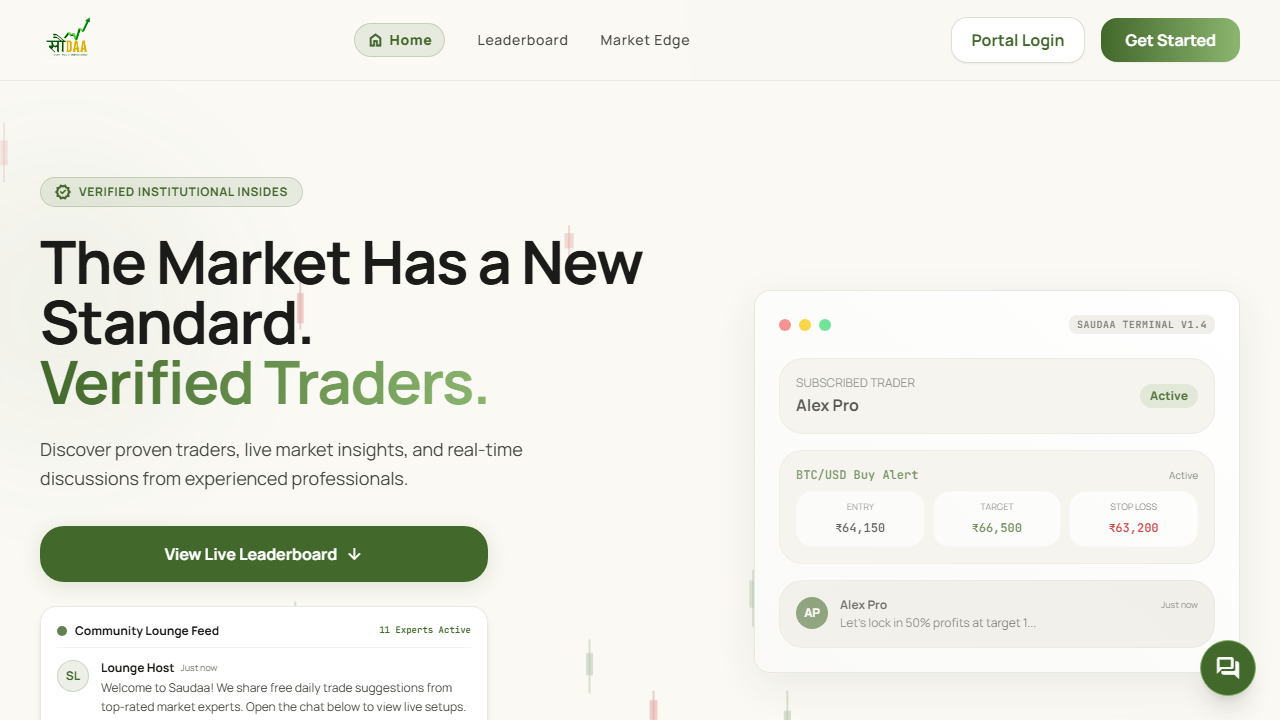
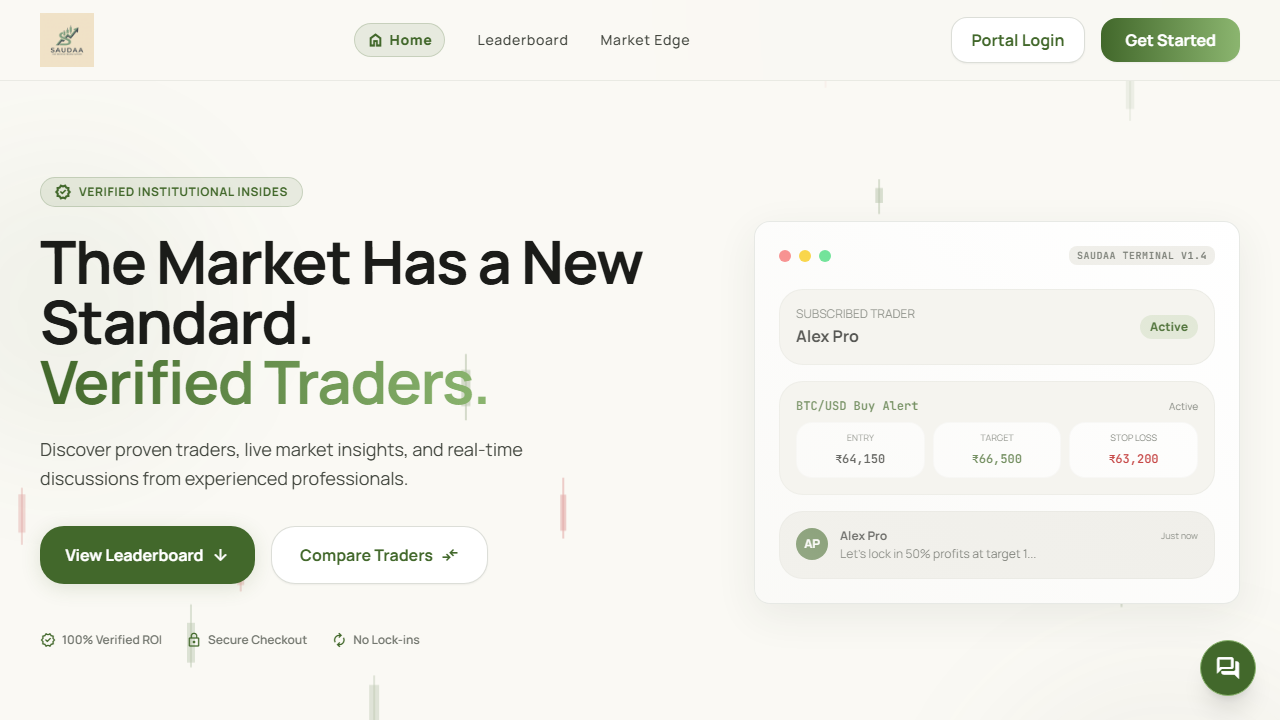
feat: animate live stock pricing ticker to rotate seamlessly from right to left with hover pause

diff --git a/public/index.html b/public/index.html
@@ -346,32 +346,59 @@
           </span>
           Live Markets:
         </div>
-        <div id="price-ticker" class="flex gap-12 whitespace-nowrap animate-ticker custom-scrollbar overflow-x-auto py-0.5">
+        <div id="price-ticker" class="flex gap-12 whitespace-nowrap animate-ticker overflow-hidden py-0.5">
           <!-- Populated by JavaScript -->
+          <!-- Set 1 -->
           <div class="ticker-item inline-flex items-center gap-2">
             <span class="font-bold text-xs text-on-surface">AAPL</span>
-            <span class="font-mono text-xs text-outline" id="price-AAPL">---</span>
-            <span class="font-mono text-xs font-semibold" id="change-AAPL">---</span>
+            <span class="font-mono text-xs text-outline">---</span>
+            <span class="font-mono text-xs font-semibold">---</span>
           </div>
           <div class="ticker-item inline-flex items-center gap-2">
             <span class="font-bold text-xs text-on-surface">MSFT</span>
-            <span class="font-mono text-xs text-outline" id="price-MSFT">---</span>
-            <span class="font-mono text-xs font-semibold" id="change-MSFT">---</span>
+            <span class="font-mono text-xs text-outline">---</span>
+            <span class="font-mono text-xs font-semibold">---</span>
           </div>
           <div class="ticker-item inline-flex items-center gap-2">
             <span class="font-bold text-xs text-on-surface">TSLA</span>
-            <span class="font-mono text-xs text-outline" id="price-TSLA">---</span>
-            <span class="font-mono text-xs font-semibold" id="change-TSLA">---</span>
+            <span class="font-mono text-xs text-outline">---</span>
+            <span class="font-mono text-xs font-semibold">---</span>
           </div>
           <div class="ticker-item inline-flex items-center gap-2">
             <span class="font-bold text-xs text-on-surface">NVDA</span>
-            <span class="font-mono text-xs text-outline" id="price-NVDA">---</span>
-            <span class="font-mono text-xs font-semibold" id="change-NVDA">---</span>
+            <span class="font-mono text-xs text-outline">---</span>
+            <span class="font-mono text-xs font-semibold">---</span>
           </div>
           <div class="ticker-item inline-flex items-center gap-2">
             <span class="font-bold text-xs text-on-surface">AMZN</span>
-            <span class="font-mono text-xs text-outline" id="price-AMZN">---</span>
-            <span class="font-mono text-xs font-semibold" id="change-AMZN">---</span>
+            <span class="font-mono text-xs text-outline">---</span>
+            <span class="font-mono text-xs font-semibold">---</span>
+          </div>
+          <!-- Set 2 -->
+          <div class="ticker-item inline-flex items-center gap-2">
+            <span class="font-bold text-xs text-on-surface">AAPL</span>
+            <span class="font-mono text-xs text-outline">---</span>
+            <span class="font-mono text-xs font-semibold">---</span>
+          </div>
+          <div class="ticker-item inline-flex items-center gap-2">
+            <span class="font-bold text-xs text-on-surface">MSFT</span>
+            <span class="font-mono text-xs text-outline">---</span>
+            <span class="font-mono text-xs font-semibold">---</span>
+          </div>
+          <div class="ticker-item inline-flex items-center gap-2">
+            <span class="font-bold text-xs text-on-surface">TSLA</span>
+            <span class="font-mono text-xs text-outline">---</span>
+            <span class="font-mono text-xs font-semibold">---</span>
+          </div>
+          <div class="ticker-item inline-flex items-center gap-2">
+            <span class="font-bold text-xs text-on-surface">NVDA</span>
+            <span class="font-mono text-xs text-outline">---</span>
+            <span class="font-mono text-xs font-semibold">---</span>
+          </div>
+          <div class="ticker-item inline-flex items-center gap-2">
+            <span class="font-bold text-xs text-on-surface">AMZN</span>
+            <span class="font-mono text-xs text-outline">---</span>
+            <span class="font-mono text-xs font-semibold">---</span>
           </div>
         </div>
       </div>

diff --git a/public/app.js b/public/app.js
@@ -123,20 +123,30 @@ function startLiveTicker() {
 }
 
 function updateTickerUI() {
-  Object.keys(livePrices).forEach(ticker => {
-    const priceEl = document.getElementById(`price-${ticker}`);
-    const changeEl = document.getElementById(`change-${ticker}`);
+  const tickerEl = document.getElementById('price-ticker');
+  if (!tickerEl) return;
 
-    if (priceEl && changeEl) {
-      const val = livePrices[ticker];
-      const changePct = val.changePercent !== undefined ? val.changePercent : val.change;
-      const isUp = changePct >= 0;
-      
-      priceEl.textContent = `₹${val.price.toFixed(2)}`;
-      changeEl.textContent = `${isUp ? '+' : ''}${changePct.toFixed(2)}%`;
-      changeEl.className = `font-mono text-xs font-semibold ${isUp ? 'text-primary' : 'text-error'}`;
-    }
-  });
+  const tickers = Object.keys(livePrices);
+  if (tickers.length === 0) return;
+
+  const itemsHtml = tickers.map(ticker => {
+    const val = livePrices[ticker];
+    const changePct = val.changePercent !== undefined ? val.changePercent : val.change;
+    const isUp = changePct >= 0;
+    
+    return `
+      <div class="ticker-item inline-flex items-center gap-2">
+        <span class="font-bold text-xs text-on-surface">${ticker}</span>
+        <span class="font-mono text-xs text-outline">₹${val.price.toFixed(2)}</span>
+        <span class="font-mono text-xs font-semibold ${isUp ? 'text-primary' : 'text-error'}">
+          ${isUp ? '+' : ''}${changePct.toFixed(2)}%
+        </span>
+      </div>
+    `;
+  }).join('');
+
+  // Duplicate the HTML items to create a seamless marquee loop
+  tickerEl.innerHTML = itemsHtml + itemsHtml;
 }
 
 // 3. Fetch Traders & Leaderboard Ranking System

diff --git a/public/app.css b/public/app.css
@@ -31,6 +31,14 @@ body {
   }
 }
 
+.animate-ticker {
+  animation: ticker 30s linear infinite;
+}
+
+.animate-ticker:hover {
+  animation-play-state: paused;
+}
+
 /* Live Price Strip Styling */
 #price-ticker {
   display: flex;